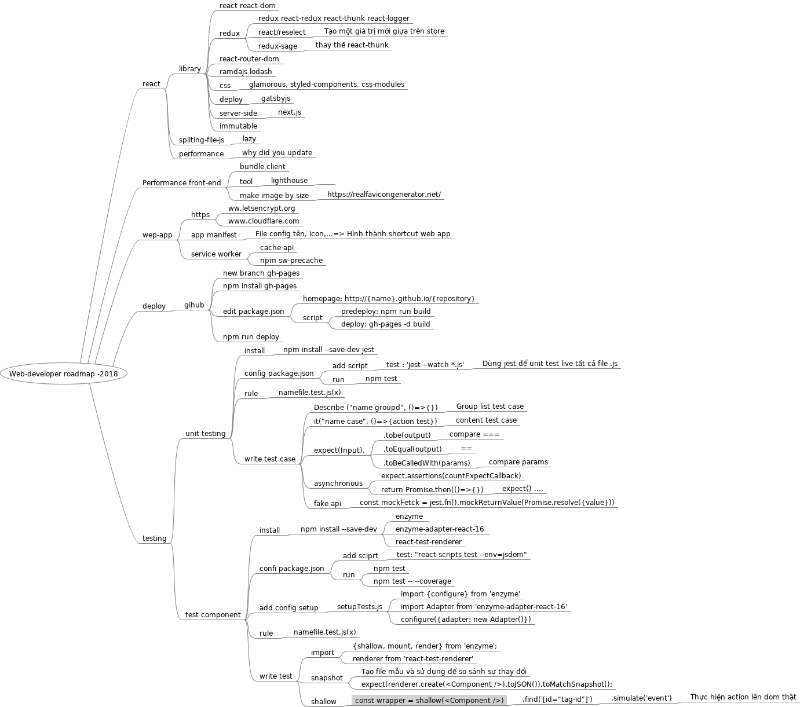
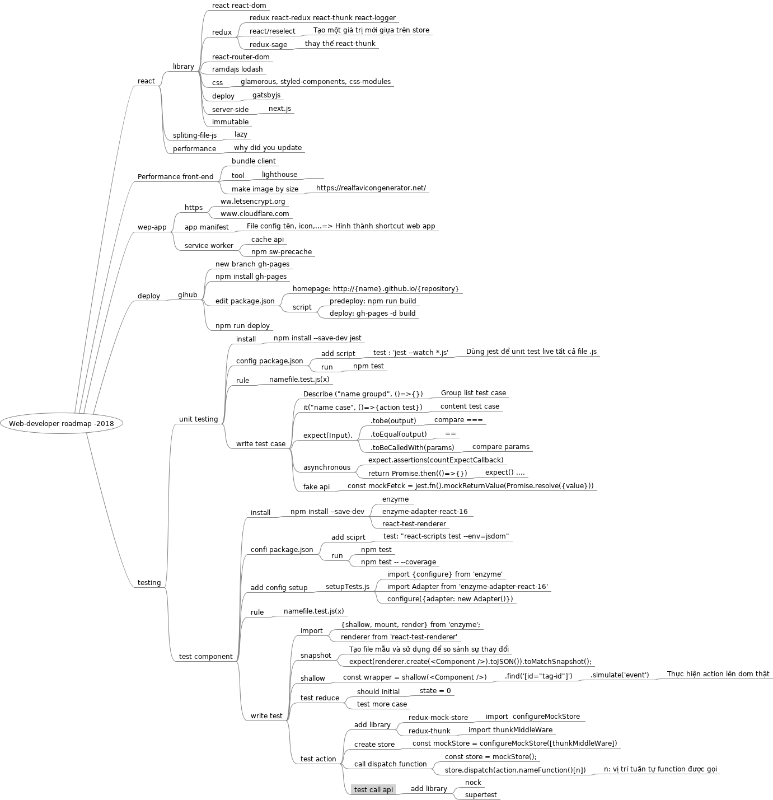
update

diff --git a/website/Web-developer roadmap -2018.mm b/website/Web-developer roadmap -2018.mm
@@ -163,6 +163,37 @@
 </node>
 </node>
 </node>
+<node CREATED="1563234309558" ID="ID_826152419" MODIFIED="1563234323050" TEXT="test reduce">
+<node CREATED="1563234323784" ID="ID_1634832150" MODIFIED="1563234357977" TEXT="should initial ">
+<node CREATED="1563234358945" ID="ID_1003634208" MODIFIED="1563234367828" TEXT="state = 0"/>
+</node>
+<node CREATED="1563234370587" ID="ID_185207223" MODIFIED="1563234386999" TEXT="test more case"/>
+</node>
+<node CREATED="1563234388631" ID="ID_152777278" MODIFIED="1563234396426" TEXT="test action">
+<node CREATED="1563234397167" ID="ID_1638458781" MODIFIED="1563234415215" TEXT="add library">
+<node CREATED="1563234416006" ID="ID_1118244975" MODIFIED="1563234422613" TEXT="redux-mock-store">
+<node CREATED="1563234448959" ID="ID_397299714" MODIFIED="1563234527942" TEXT="import  configureMockStore "/>
+</node>
+<node CREATED="1563234422907" ID="ID_1378926382" MODIFIED="1563234491774" TEXT="redux-thunk">
+<node CREATED="1563234492611" ID="ID_94016136" MODIFIED="1563234514671" TEXT="import thunkMiddleWare"/>
+</node>
+</node>
+<node CREATED="1563234438698" ID="ID_966234448" MODIFIED="1563234536773" TEXT="create store">
+<node CREATED="1563234537510" ID="ID_1412948013" MODIFIED="1563234572744" TEXT="const mockStore = configureMockStore([thunkMiddleWare])"/>
+</node>
+<node CREATED="1563234595583" ID="ID_1998605462" MODIFIED="1563234614736" TEXT="call dispatch function">
+<node CREATED="1563234617723" ID="ID_1707080088" MODIFIED="1563234635776" TEXT="const store = mockStore();"/>
+<node CREATED="1563234636179" ID="ID_511608243" MODIFIED="1563234685920" TEXT="store.dispatch(action.nameFunction()[n])">
+<node CREATED="1563234687288" ID="ID_1509091128" MODIFIED="1563234717833" TEXT="n: v&#x1ecb; tr&#xed; tu&#x1ea7;n t&#x1ef1; function &#x111;&#x1b0;&#x1ee3;c g&#x1ecd;i"/>
+</node>
+</node>
+<node CREATED="1563234720337" ID="ID_897692884" MODIFIED="1563234875648" TEXT="test call api">
+<node CREATED="1563234751164" ID="ID_703793044" MODIFIED="1563234770555" TEXT="add library">
+<node CREATED="1563234771548" ID="ID_1827324964" MODIFIED="1563234773702" TEXT="nock"/>
+<node CREATED="1563234794205" ID="ID_1668365897" MODIFIED="1563234814105" TEXT="supertest"/>
+</node>
+</node>
+</node>
 </node>
 </node>
 </node>
